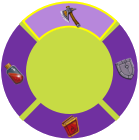
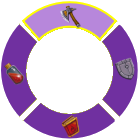
Placed hero sprites. Created menu wheel.

diff --git a/animations.h b/animations.h
@@ -2,6 +2,9 @@
 #define ANIMATIONS_H
 #include <iostream>
 #include <vector>
+#include <stdio.h>     // rand()
+#include <stdlib.h>    // rand()
+#include <time.h>      // rand()
 #include <SFML/Graphics.hpp>
 #include <SFML/Audio.hpp>
 #include <SFML/Window.hpp>
@@ -20,10 +23,12 @@ public:
    Animations() {}
    Animations(short* screenWidth, short* screenHeight); 
    void animateBattlescape(sf::RenderWindow & window, 
-   vector<Character*> & heroParticipants, 
-   vector<Character*> & monsterParticipants, bool (&animationLineup)[36], 
-   bool & go);
+      bool (&animationLineup)[36], bool & go);
    bool eventListener(sf::RenderWindow & window);
+
+   vector<Character*> heroParticipants;   
+   vector<Character*> monsterParticipants;
+   Character* activeCharacter;
 
 private:
    sf::Clock animationClock;
@@ -32,14 +37,15 @@ private:
    sf::Music music;
    sf::Text text;
 
-   sf::Texture mWheel;
+   /*************************/
+
    sf::Texture backgroundTex;
-
-   sf::IntRect menuRect;
    sf::IntRect backgroundRect;
-
-   sf::Sprite menuSprite;
    sf::Sprite backgroundSpr;
+
+   sf::Texture mWheel;
+   sf::IntRect menuRect;
+   sf::Sprite menuSprite;
 
    float a = 0, b = 0;
 
@@ -53,8 +59,8 @@ private:
    short* pScreenHeight;
 
    // One-time functions (create sprites)
-   void createBackground();
-   void createMenuWheel();
+   void createScapeSprite(string fileName, short x, short y, 
+      sf::Texture & texture, sf::IntRect & rectangle, sf::Sprite & sprite);
 
    // Looped functions
    void drawBackground(sf::RenderWindow & window);
@@ -86,16 +92,21 @@ private:
 };
 
 
+/*##############################################################################
+################################# Functions ####################################
+##############################################################################*/
 
 
 /*******************************************************************************
-* Constructor. All the 'create sprite' functions should be included here.
+* Constructor. All 'create sprite' functions should be included here.
 *******************************************************************************/
 Animations::Animations(short* screenWidth, short* screenHeight) {
    pScreenWidth = screenWidth;
    pScreenHeight = screenHeight;
-   createBackground();
-   createMenuWheel();
+   createScapeSprite("Images/BackgroundPineforest.png", 1920, 1080, 
+      backgroundTex, backgroundRect, backgroundSpr);
+   createScapeSprite("Images/MenuWheel.png", 140, 140, mWheel, menuRect, menuSprite);
+   menuSprite.setOrigin(70.f, 70.f);
 }
 
 /*******************************************************************************
@@ -117,8 +128,8 @@ bool Animations::eventListener(sf::RenderWindow & window) {
       if (event.type == sf::Event::Resized) {
          *pScreenWidth = event.size.width;
          *pScreenHeight = event.size.height;
-         cout << "Screen Width: " << event.size.width << endl;
-         cout << "Screen Height: " << event.size.height << endl;         
+         // cout << "Screen Width: " << event.size.width << endl;
+         // cout << "Screen Height: " << event.size.height << endl;         
          sf::FloatRect visibleArea(0, 0, *pScreenWidth, *pScreenHeight);
          window.setView(sf::View(visibleArea));
          MaintainAspectRatio(window);
@@ -130,6 +141,10 @@ bool Animations::eventListener(sf::RenderWindow & window) {
    return 0;
 }
 
+float randomize(float num) {
+   return (rand() % 100) + (num - 50);
+}
+
 /*******************************************************************************
 * animateBattleScape(window, Character*, Character*)
 * Public function. This is what battle.h calls to create the entire battlescape
@@ -137,45 +152,36 @@ bool Animations::eventListener(sf::RenderWindow & window) {
 * animations called when an event is triggered (attack, bleed, die, etc.).
 *******************************************************************************/
 void Animations::animateBattlescape(sf::RenderWindow & window, 
-   vector<Character*> & heroParticipants, 
-   vector<Character*> & monsterParticipants, bool (&animationLineup)[36], 
-   bool & go) {
+   bool (&animationLineup)[36], bool & go) {
 
-   // eventListener(window);
    drawBackground(window);
+   
+   for(auto i : heroParticipants) 
+      i->animatedSprite->placeSpriteAnimation(window);
+
    for(auto i : monsterParticipants) {
       i->animatedSprite->sprite.setPosition(sf::Vector2f(1000.f, 500.f));
       i->animatedSprite->placeSpriteAnimation(window);
    }
+
+   // This must be last to be called in this function!
    animationSelect(animationLineup, go, window);
 }
 
 /*******************************************************************************
-* void createBackground()
-* Creates the battlescape background sprite.
+* void createScapeSprite(texture file, rect dimensions, file, spite obj)
+* Creates a sprite object.
 *******************************************************************************/
-void Animations::createBackground() {
-   if(!backgroundTex.loadFromFile("Images/BackgroundPineforest.png")) 
-      cout << "Error loading Images/dragon.png";
-   sf::IntRect backgroundRect(0, 0, 1920, 1080);
-   this->backgroundRect = backgroundRect;
-   backgroundSpr.setTexture(backgroundTex);
-   backgroundSpr.setTextureRect(backgroundRect);
+void Animations::createScapeSprite(string fileName, short x, short y,
+   sf::Texture & texture, sf::IntRect & rectangle, sf::Sprite & sprite) {
+   
+   if(!texture.loadFromFile(fileName)) cout << "Error loading " << fileName;
+   rectangle.width = x;
+   rectangle.height = y;
+   sprite.setTexture(texture);
+   sprite.setTextureRect(rectangle);
 }
 
-/*******************************************************************************
-* void createMenuWheel()
-* Creates the menu wheel sprite (character options menu).
-*******************************************************************************/
-void Animations::createMenuWheel() {
-   if(!mWheel.loadFromFile("Images/MenuWheel.png")) 
-      cout << "unable to load image 'MenuWheel.png'" << endl;
-   sf::IntRect menuRect(0, 0, 140, 140);
-   this->menuRect = menuRect;
-   menuSprite.setTexture(mWheel);
-   menuSprite.setTextureRect(menuRect);
-   menuSprite.setOrigin(70.f, 70.f);
-}
 
 
 /*##############################################################################
@@ -216,7 +222,6 @@ void Animations::MaintainAspectRatio(sf::RenderWindow & window)
                 currentAspectHeight = newAspectHeight;
                 currentAspectWidth = currentAspectHeight * aspectRatio;
         }
-        std::cout << "width: " << currentAspectWidth << " height: " << currentAspectHeight;
         window.setSize(sf::Vector2u(currentAspectWidth, currentAspectHeight));
 }
 
@@ -226,7 +231,11 @@ void Animations::MaintainAspectRatio(sf::RenderWindow & window)
 * the hero. On key-press, the menu rotates to change the active action selected.
 *******************************************************************************/
 void Animations::drawMenuWheel(sf::RenderWindow & window) {
-   menuSprite.setPosition(sf::Vector2f(*pScreenWidth / 2 - 70, *pScreenHeight / 2 - 70));
+   // menuSprite.setPosition(sf::Vector2f(*pScreenWidth / 2 - 70, *pScreenHeight / 2 - 70));
+   sf::Vector2f pos = activeCharacter->animatedSprite->sprite.getPosition();
+   pos.x += activeCharacter->animatedSprite->rectangle.width / 2;
+   pos.y += activeCharacter->animatedSprite->rectangle.height / 2;
+   menuSprite.setPosition(pos);
    window.draw(menuSprite);
    menuSprite.rotate(-2.f);
 }
@@ -260,7 +269,7 @@ short Animations::getLineupIndex(bool animationLineup[], short size) {
 void Animations::animationSelect(bool (&animationLineup)[36], bool & go, sf::RenderWindow & window) {
 
    short size = sizeof(animationLineup);
-   if(animationClock.getElapsedTime().asSeconds() > 3.0f) {
+   if(animationClock.getElapsedTime().asSeconds() > 1.5f) {
       lineupIndex = getLineupIndex(animationLineup, size);
       animationClock.restart();
    }

diff --git a/battle.h b/battle.h
@@ -40,6 +40,10 @@ public:
          
       srand(time(0));       
       generateParticipantLists();
+      setHeroPositions();
+      // setMonsterPositions();
+      this->animations->heroParticipants = this->heroParticipants;
+      this->animations->monsterParticipants = this->monsterParticipants;
    }
 
    void combat (sf::RenderWindow & window);
@@ -80,6 +84,9 @@ private:
       stunCount = 0,
       slowCount = 0, 
       hazardCount = 0;
+
+   float heroPositionsX[4] = {360.f, 240.f, 320.f, 280.f},
+         heroPositionsY[4] = {400.f, 510.f, 290.f, 620.f};
 
    string 
       newMonster,
@@ -134,6 +141,8 @@ private:
    void playBattleMusic      ();
    short getLineupIndex      ();
    void resetStuff           ();
+   float randomize           (float num);
+   void setHeroPositions     ();
 };
 
 
@@ -807,6 +816,26 @@ void Battle::resetStuff() {
    hazardCount = 0;
 }
 
+/*******************************************************************************
+* void randomize(float)
+* Randomizes the hero sprite placement on the screen. Shifts + or - 50px from a
+* pre-designated point.
+*******************************************************************************/
+float Battle::randomize(float num) {
+   return (rand() % 100) + (num - 50);
+}
+
+/*******************************************************************************
+* setHeroPositions()
+* Sets the locations to draw the hero character sprites.
+*******************************************************************************/
+void Battle::setHeroPositions() {
+   for(short i = 0; i < heroParticipants.size(); i++) {
+      heroParticipants[i]->animatedSprite->sprite.setPosition(
+         sf::Vector2f(randomize(heroPositionsX[i]), heroPositionsY[i]));
+   }
+}
+
 
 
 /*###  ####  ######################################################  ####  #####
@@ -824,7 +853,7 @@ void Battle::resetStuff() {
 ##############################################################################*/
 void Battle::combat(sf::RenderWindow & window) {
 
-   playBattleMusic();
+   if(!textMode) playBattleMusic();
 
    short count = 0;
    while(true) {
@@ -839,8 +868,11 @@ void Battle::combat(sf::RenderWindow & window) {
       if(animations->eventListener(window)) break;
 
       // Determines who's turn it is based on the lowest running initiative. 
-      if(go) participant = nextAction();
-      if(go) resetStuff();
+      if(go) {
+         participant = nextAction();
+         animations->activeCharacter = participant;         
+         resetStuff();
+      }
 
       /*************************************************************************
       *                        Turn Ending Action Block
@@ -867,19 +899,13 @@ void Battle::combat(sf::RenderWindow & window) {
       *                          Battle Drawings
       * Activates all animations in animations.h.
       *************************************************************************/
-      animations->animateBattlescape(window, heroParticipants, monsterParticipants,
-         animationLineup, go);
-
-
+      animations->animateBattlescape(window, animationLineup, go);
 
       if(debugMode) cout << "Participant: " << participant->name << endl;
       if(debugMode) cout << "Current lineup index: " << lineupIndex << endl;
       if(debugMode) for(bool i : animationLineup)
          cout << i << ", ";
       if(debugMode) cout << endl; 
-
-      // if(!textMode) animations->animationSelect(animationLineup, go, window);
-      // else go = 1;
 
       window.display();
    }   

diff --git a/character.cpp b/character.cpp
@@ -31,7 +31,7 @@ Character::Character(string newMonster) {
    armor =                     new Armor(monster[newMonster]);
    this->evasion =             monster[newMonster].second.first[10];
    this->regeneration =        monster[newMonster].second.first[15];
-   setSpriteAnimation(newMonster);
+   setMonsterSpriteAnimation(newMonster);
 }
 
 /*****************************************
@@ -43,6 +43,7 @@ Character::Character(string name, bool hero) {
    this->weapon = new Weapon;
    this->armor = new Armor;
    this->runningInitiative = initiative;
+   setHeroSpriteAnimation();
 }
 
 /*******************************************************************************
@@ -97,16 +98,20 @@ void Character::setArmor(string name) {
    this->regeneration = armor->regeneration;
 }
 
-void Character::setSpriteAnimation(string newMonster) {
+void Character::setMonsterSpriteAnimation(string newMonster) {
    animatedSprite = new AnimatedSprite(
-      monster[newMonster].first.first[1],  
-      monster[newMonster].second.first[18],
-      monster[newMonster].second.first[19],
-      monster[newMonster].second.first[20],
-      monster[newMonster].second.first[21],
-      monster[newMonster].second.first[22],
-      monster[newMonster].second.second[11]
+      monster[newMonster].first.first[1],     // Texture File 
+      monster[newMonster].second.first[18],   // x1
+      monster[newMonster].second.first[19],   // y1
+      monster[newMonster].second.first[20],   // x2
+      monster[newMonster].second.first[21],   // y2
+      monster[newMonster].second.first[22],   // Number of frames
+      monster[newMonster].second.second[11]   // FPS
    );
+}
+
+void Character::setHeroSpriteAnimation() {
+   animatedSprite = new AnimatedSprite("Images/Heroine.png", 0, 0, 54, 72, 5, 0.11f); 
 }
 
 /*******************************************************************************

diff --git a/main.cpp b/main.cpp
@@ -41,7 +41,7 @@ int main() {
    music.setLoop(true);
    music.play();
 
-   vector<Character> heroes = createCharacters(1);
+   vector<Character> heroes = createCharacters(4);
 
        // heroes, monster type, debug mode, num monsters, text mode, animations
    Battle battle(heroes, "Dragon", 0, 1, 0, pAnimations);

diff --git a/character.h b/character.h
@@ -38,7 +38,8 @@ public:
    void setWeapon(string weaponType);
    void setOffhand(string weaponType);
    void setArmor(string name);
-   void setSpriteAnimation(string newMonster);
+   void setMonsterSpriteAnimation(string newMonster);
+   void setHeroSpriteAnimation();
 
    // Functions
    void displayStats();
